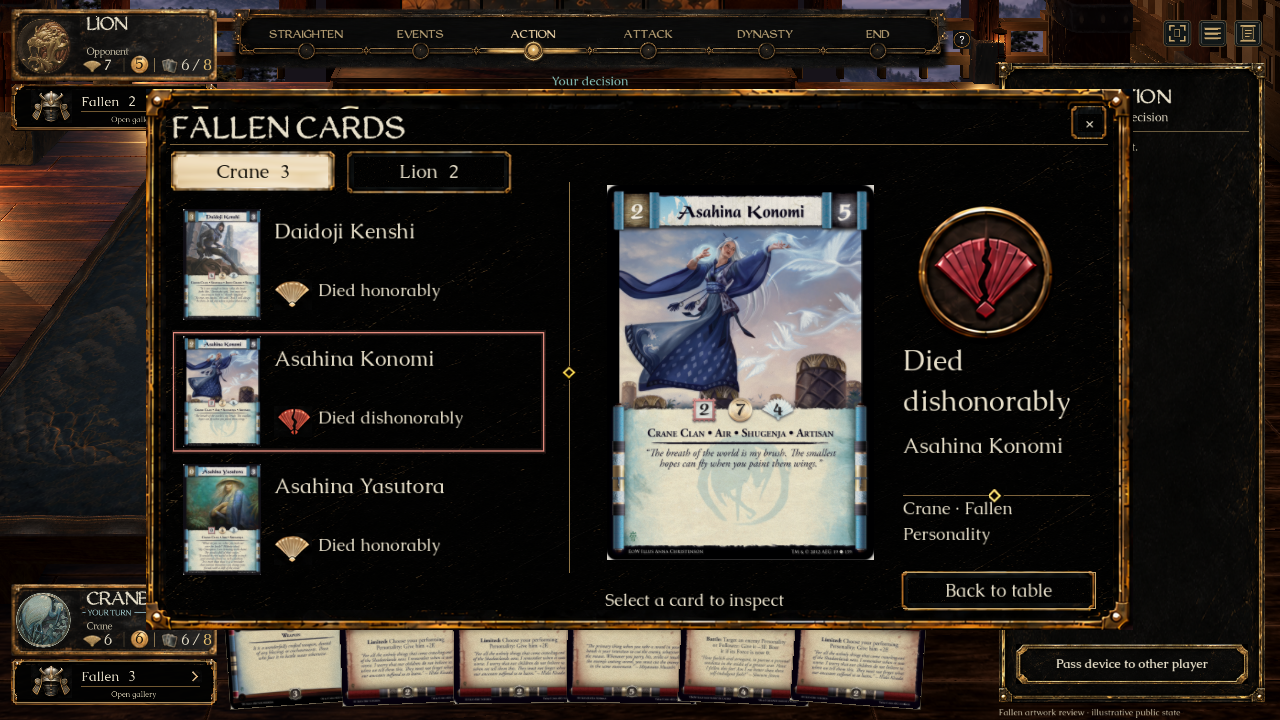
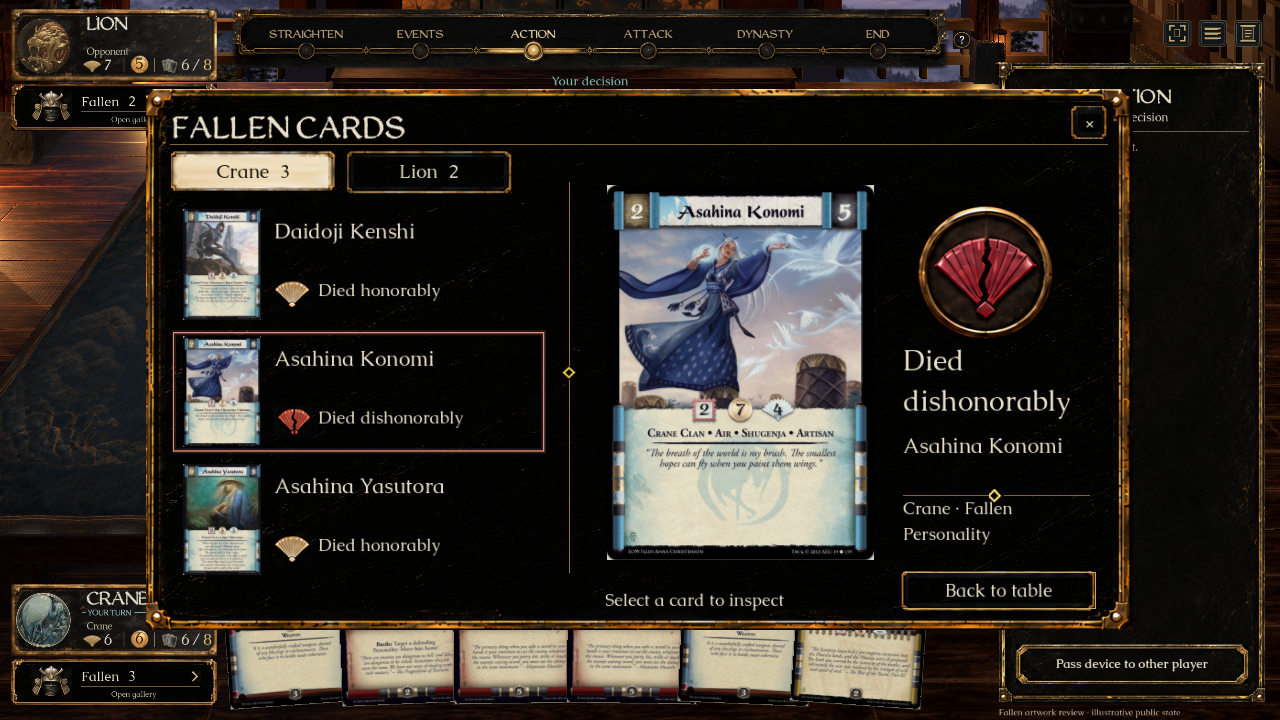
Remove source-title fragments above Fallen gallery heading

Changed region(s): [[0.5312, 0.8556, 0.7188, 0.9778], [0.2812, 0.8861, 0.4375, 0.9472]]

diff --git a/src/L5R.Client/FallenArt.cs b/src/L5R.Client/FallenArt.cs
@@ -32,6 +32,15 @@ public static class FallenArt
         for(var y=0;y<3;y++)for(var x=0;x<3;x++)
         {
             if(x==1&&y==1)continue;
+            if(source==GallerySource&&y==0&&x==1)
+            {
+                // The 22px corner slice reaches into the source title. Keep only
+                // the clean 14px frame run here so its letter tips cannot leak
+                // above the live heading; retain the full ornamental corners.
+                canvas.DrawTextureRectRegion(art,new Rect2(dx[x],dy[y],dx[x+1]-dx[x],14),
+                    new Rect2(source.Position+new Vector2(edge,0),new Vector2(source.Size.X-2*edge,14)));
+                continue;
+            }
             if(source==CounterSource&&y==2&&x==1)
             {
                 // Omit the tooltip pointer baked across the source's lower edge.

diff --git a/docs/screenshots/fallen/validation.md b/docs/screenshots/fallen/validation.md
@@ -11,6 +11,12 @@
 
 ## Launcher / catalogue dependency
 
+### Heading cleanup follow-up — 2026-09-16
+
+The gallery's top frame crop included tips of the imagegen source title, visible as two bright strokes above the live heading. The top middle now samples only the clean 14-pixel border run; ornamental corners retain their full 22-pixel slices. Source PNGs and live typography are unchanged.
+
+Rebuilt the client with **0 warnings and 0 errors**. Recaptured and visually inspected the native/source comparison and full-game galleries at **1920 × 1080** and **1280 × 720**; both full-game pointer/modal/owner/session checks passed. The 1080p capture ran through the actual `Play Latest.command` preflight/build/launch. `comparison.png`, `gallery.png` and `gallery-small.png` show this correction; other images above are the prior implementation baseline. The full 439-check/14-case baseline above was not rerun for this cosmetic crop adjustment.
+
 The first `Play Latest.command` verification caught seven main-branch printings missing from the older WebP manifest. The publisher builder regenerated the 2,749-image WebP85 pack from verified originals. Its SHA-256 **a1ecf9de0845f7619c6c6a69ba96943eb61952eac3046b36e4059dbab35d9e20** exactly matches the already published private `catalogue-art-webp-v4-20260916` release (375,462,528 bytes). The receipt and manifest now reference that existing release; no release was replaced and no original printing changed. Local installation and the real launcher’s offline preflight, build and native capture passed (`launcher.png`).
 
 ## Review limits

diff --git a/assets/ui/fallen/README.md b/assets/ui/fallen/README.md
@@ -13,7 +13,7 @@ Alfredo approved A’s attached counter and B’s inspection panel on 2026-09-16
 | B gallery | 567, 94, 1077, 590 |
 | B broken medallion | Circle centered 1487, 292; radius 76 |
 
-The source counter’s overlapping tooltip pointer is omitted using an unobscured section of its bottom border. The inherited approved lacquer texture fills resizable interiors; it is not a newly drawn substitute for the source ornaments. Texture resources are held for the lifetime of the renderer, including idle opponent counters.
+The source counter’s overlapping tooltip pointer is omitted using an unobscured section of its bottom border. The gallery’s top middle run uses only the first 14 pixels of its source height; the full 22-pixel corners remain intact. This excludes the original title’s letter tips above the live heading. The inherited approved lacquer texture fills resizable interiors; it is not a newly drawn substitute for the source ornaments. Texture resources are held for the lifetime of the renderer, including idle opponent counters.
 
 `honorable-medallion-v1.png` is a built-in image_gen derivative of approved B: an intact ivory/gold fan in the same black lacquer/gold medallion family. It replaces enlargement of a tiny source icon. The exact prompt, tool mode and output path are in `honorable-medallion-prompt.json`. Generated source: `exec-d1b93f5d-1bb2-4867-b6a7-3014ee2e5754.png`; 1254 × 1254 RGBA, preserved unchanged with alpha. Godot generates mipmaps for its small UI use. This is a 2D sprite, not a new 3D frame.
 
